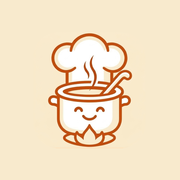
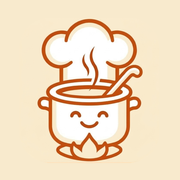
Bouton du minuteur aligné, retour qui ferme « Quelles recettes ? », icône agrandie (1.12.1)
- Minuteur : bouton principal en texte seul, centré comme « ±1 min » ; la
  colonne de boutons ne déborde plus de la carte (« Reprendre »).
- Courses : le retour Android ferme la feuille « Quelles recettes ? » au lieu
  de quitter l'écran ; plus de « à vérifier » sur un article ajouté à la main
  sans quantité (« selon la recette » pour un ingrédient de recette).
- Icône Android : dessin agrandi d'environ 25 %, jusqu'au bord de la zone
  toujours visible.

Claude-Session: https://claude.ai/code/session_019nUedq4jN3SgZrZJ33eYLR

Changed region(s): [[0.1944, 0.0833, 0.8056, 0.9167]]

diff --git a/css/app.css b/css/app.css
@@ -287,12 +287,10 @@ svg.i { width: 20px; height: 20px; flex: none; stroke: currentColor; fill: none;
 .minuteur.sonne { animation: sonne 1s ease-in-out infinite; }
 .minuteur.fini .val { stroke: var(--accent); }
 @keyframes sonne { 50% { background: #FFE2CC; } }
-.minuteur-btns { display: flex; flex-direction: column; gap: 10px; flex: 1; }
-.minuteur-btns button { height: 48px; border-radius: 14px; border: 1px solid var(--bordure); background: var(--carte); font-weight: 600; display: flex; align-items: center; justify-content: center; gap: 6px; }
+.minuteur-btns { display: flex; flex-direction: column; gap: 10px; flex: 1; min-width: 0; }
+.minuteur-btns button { min-width: 0; padding: 0 8px; height: 48px; border-radius: 14px; border: 1px solid var(--bordure); background: var(--carte); font-weight: 600; display: flex; align-items: center; justify-content: center; gap: 6px; }
 .minuteur-btns .lecture { background: var(--minuteur); border-color: var(--minuteur); color: var(--encre); }
-.minuteur-btns .lecture svg.i { fill: currentColor; stroke: none; }
-/* Texte centré comme « −1 min » / « +1 min » : l'icône est compensée à droite. */
-.minuteur-btns .lecture::after { content: ''; width: 20px; flex: none; }
+
 .choix-durees { display: flex; gap: 8px; flex-wrap: wrap; margin: -6px 0 14px; }
 .choix-durees button { padding: 6px 12px; border-radius: 999px; border: 1px solid var(--bordure); background: var(--carte); font-size: 14px; }
 .choix-durees button[aria-pressed="true"] { border-color: var(--minuteur); background: var(--pastel); }
@@ -467,7 +465,6 @@ button.toast-action { background: none; border: 0; padding: 0; font: inherit; }
 .vignette-photo { touch-action: none; user-select: none; -webkit-user-select: none; -webkit-touch-callout: none; }
 .vignette-photo.deplacee { z-index: 2; opacity: .9; box-shadow: 0 10px 24px rgba(43, 33, 24, .3); transition: none; }
 .vignette-photo.cible { outline: 3px solid var(--accent); outline-offset: 2px; }
-.minuteur-btns .lecture svg.i.trait { fill: none; stroke: currentColor; }
 /* Minuteur terminé : bandeau en haut de tous les écrans, tant que ça sonne. */
 .alarme {
   position: fixed; z-index: 60; left: 12px; right: 12px; top: calc(var(--haut) + 10px); max-width: 520px; margin: 0 auto;

diff --git a/js/views/courses.js b/js/views/courses.js
@@ -118,7 +118,8 @@ export function courses(root) {
 }
 
 function article(a, info, ouvert) {
-  const qte = a.sansQuantite ? 'à vérifier' : C.texteQuantites(a);
+  // Sans quantité : rien pour un article ajouté à la main ; « selon la recette » sinon (« sel, poivre »).
+  const qte = !a.sansQuantite ? C.texteQuantites(a) : a.details.every(d => d.ajout) ? '' : 'selon la recette';
   const reste = info.manque
     ? (info.manque.n ? `il manque ${C.formatQuantite(info.manque.n, info.manque.unite)}` : 'j\'en ai assez ✓')
     : '';
@@ -230,9 +231,15 @@ function choisirRecettes(apres) {
   };
   afficher();
   el.querySelector('input').addEventListener('input', ev => afficher(ev.target.value));
-  const fermer = () => { el.remove(); document.body.classList.remove('sans-defilement'); apres(); };
-  el.querySelector('#f-fermer').addEventListener('click', fermer);
-  el.addEventListener('click', ev => { if (ev.target === el) fermer(); });
+  // Une entrée d'historique : le retour Android ferme la feuille au lieu de quitter les courses.
+  history.pushState({ feuille: true }, '');
+  const fermer = () => {
+    window.removeEventListener('popstate', fermer);
+    el.remove(); document.body.classList.remove('sans-defilement'); apres();
+  };
+  window.addEventListener('popstate', fermer);
+  el.querySelector('#f-fermer').addEventListener('click', () => history.back());
+  el.addEventListener('click', ev => { if (ev.target === el) history.back(); });
 }
 
 /** Depuis une fiche : ajoute (ou met à jour) la recette avec le nombre de personnes affiché. */

diff --git a/js/views/cuisine.js b/js/views/cuisine.js
@@ -182,14 +182,10 @@ export function cuisine(root, { params, query }) {
     bloc.classList.toggle('fini', !!m?.fini);
     bloc.classList.toggle('sonne', !!m?.sonne); // clignote seulement tant que ça sonne
     bloc.querySelector('#lib').textContent = m?.fini ? 'Terminé !' : (m ? m.label : libelle(courant.s, defaut));
-    // Le bouton principal dit ce qu'il fait (une icône seule n'était pas parlante une fois terminé).
-    const [ic, texte] = M.enCours(m) ? ['pause', 'Pause'] : m?.sonne ? ['stop', 'Arrêter']
-      : m?.fini ? ['reset', 'Relancer'] : m ? ['play', 'Reprendre'] : ['play', 'Démarrer'];
+    // Le bouton principal dit ce qu'il fait, en texte seul, centré comme « −1 min » et « +1 min ».
+    const texte = M.enCours(m) ? 'Pause' : m?.sonne ? 'Arrêter' : m?.fini ? 'Relancer' : m ? 'Reprendre' : 'Démarrer';
     const lecture = bloc.querySelector('#m-lecture');
-    if (lecture.dataset.etat !== texte) {
-      lecture.dataset.etat = texte;
-      lecture.innerHTML = `${icon(ic, ic === 'reset' ? 'trait' : '')}${texte}`;
-    }
+    if (lecture.textContent !== texte) lecture.textContent = texte;
     corps.querySelector('#m-reset').hidden = !m;
   }
 

diff --git a/sw.js b/sw.js
@@ -1,6 +1,6 @@
 // Service worker : met l'application en cache pour un usage hors ligne.
 // Les recettes et photos sont gérées par l'app elle-même (localStorage + Cache API).
-const VERSION = 'mr-app-1.12.0'; // = version de l'app (js/views/reglages.js)
+const VERSION = 'mr-app-1.12.1'; // = version de l'app (js/views/reglages.js)
 const FICHIERS = [
   './', 'index.html', 'manifest.webmanifest', 'css/app.css',
   'js/app.js', 'js/courses.js', 'js/format.js', 'js/github.js', 'js/minuteurs.js', 'js/push.js', 'js/store.js', 'js/ui.js',

diff --git a/js/views/reglages.js b/js/views/reglages.js
@@ -5,7 +5,7 @@ import { GitHub } from '../github.js';
 import * as push from '../push.js';
 import { esc, icon, retour, toast } from '../ui.js';
 
-export const VERSION = '1.12.0';
+export const VERSION = '1.12.1';
 
 export function reglagesVue(root) {
   const r = store.reglages();

diff --git a/CLAUDE.md b/CLAUDE.md
@@ -19,9 +19,9 @@ App de recettes perso, pensée mobile (Android), en français. Maquette validée
 | `js/github.js` | appels API GitHub (arbre, blobs, contents PUT/DELETE) |
 | `js/store.js` | cache local (texte brut des recettes par sha dans `localStorage`, photos dans le Cache API), favoris, historique, imports en attente |
 | `js/ui.js` | icônes SVG, visuels/placeholder dégradé, cartes, toast, `ongletsGlissants` (onglets dans une piste à défilement natif + aimantation CSS ; la pastille suit pendant le glissement, la hauteur (= onglet affiché, chaque onglet observé) ne change qu'au repos : l'animer pendant le défilement le rendait lent et saccadé ; essai d'un glissement en JS abandonné, saccadé sur téléphone ; changement d'onglet depuis le bas de la page → retour en haut du nouvel onglet) |
-| `js/minuteurs.js` | minuteurs du mode cuisine : plusieurs à la fois (clé `slug|étape|durée`), gardés dans `localStorage`, alarme, une notification par minuteur (heure de fin) ; notification touchée → étape du minuteur (événement `mr:etape` si le mode cuisine est déjà ouvert). Bouton « Recommencer » (étape 1, minuteurs arrêtés, ingrédients décochés). « Relancer » repart de la durée de l'étape (sans les ±1 min) ; le bandeau des autres étapes ne garde pas les minuteurs terminés et arrêtés ; la carte ne clignote que tant que ça sonne. Notifications : heures, minutes et secondes. À la fin : `sonne` = sonnerie en boucle (app ouverte, son préparé au premier toucher) + bandeau « C'est prêt ! » (`app.js`, sauf dans le mode cuisine de la recette) avec « Arrêter » / « +1 min » ; mêmes boutons sur la notification (gérés par `sw.js`, app fermée : `actions.json` appliqué à la réouverture). Le serveur renvoie la notification toutes les 30 s pendant 2 min tant qu'on n'a pas arrêté. Copie des minuteurs dans le Cache API (`mr-donnees`, `minuteurs.json`) pour le service worker. |
+| `js/minuteurs.js` | minuteurs du mode cuisine : plusieurs à la fois (clé `slug|étape|durée`), gardés dans `localStorage`, alarme, une notification par minuteur (heure de fin) ; notification touchée → étape du minuteur (événement `mr:etape` si le mode cuisine est déjà ouvert). Bouton « Recommencer » (étape 1, minuteurs arrêtés, ingrédients décochés). Bouton principal en texte seul (Démarrer, Pause, Reprendre, Arrêter, Relancer), centré comme « ±1 min ». « Relancer » repart de la durée de l'étape (sans les ±1 min) ; le bandeau des autres étapes ne garde pas les minuteurs terminés et arrêtés ; la carte ne clignote que tant que ça sonne. Notifications : heures, minutes et secondes. À la fin : `sonne` = sonnerie en boucle (app ouverte, son préparé au premier toucher) + bandeau « C'est prêt ! » (`app.js`, sauf dans le mode cuisine de la recette) avec « Arrêter » / « +1 min » ; mêmes boutons sur la notification (gérés par `sw.js`, app fermée : `actions.json` appliqué à la réouverture). Le serveur renvoie la notification toutes les 30 s pendant 2 min tant qu'on n'a pas arrêté. Copie des minuteurs dans le Cache API (`mr-donnees`, `minuteurs.json`) pour le service worker. |
 | `js/push.js` | serveur des minuteurs (adresse dans les réglages, `serveur`) : abonnement Web Push, `PUT`/`DELETE /minuteurs/<appareil>|<id>` quand un minuteur démarre / s'arrête. Le `push` reçu par `sw.js` est vide : le SW retrouve le minuteur terminé dans la copie. |
-| `js/courses.js` | liste de courses : recettes prévues + nombre de personnes, ingrédients additionnés (g/kg, mL/cL/L, c. à café/soupe ; noms regroupés sans « fondu », « froid »…, œ/oe, pluriels), rayons, « j'en ai déjà » → ce qui manque, articles ajoutés à la main (`ajouts`), glisser pour retirer avec « Annuler » (`masques` : un article de recette revient si ses quantités changent) ; gardée dans `localStorage` (`mr.courses`) |
+| `js/courses.js` | liste de courses : recettes prévues + nombre de personnes, ingrédients additionnés (g/kg, mL/cL/L, c. à café/soupe ; noms regroupés sans « fondu », « froid »…, œ/oe, pluriels), rayons, « j'en ai déjà » → ce qui manque, articles ajoutés à la main (`ajouts`), glisser pour retirer avec « Annuler » (`masques` : un article de recette revient si ses quantités changent) ; la feuille « Quelles recettes ? » a son entrée d'historique (le retour Android la ferme) ; un article à la main sans quantité n'affiche rien, un ingrédient de recette sans quantité « selon la recette » ; gardée dans `localStorage` (`mr.courses`) |
 | `js/app.js` | un écran s'ouvre toujours en haut (position retrouvée seulement au retour arrière) ; routeur par ancre (`#/`, `#/recettes`, `#/favoris`, `#/courses`, `#/recette/<slug>`, `#/cuisine/<slug>?p=<portions>`, `#/ajouter`, `#/modifier/<slug>`, `#/reglages`) |
 | `js/views/*.js` | un module par écran (accueil : tri A → Z / plus rapides / récentes / anciennes, retenu dans `mr.tri` ; ajout : « Par lien » et « Saisie manuelle » sur une piste qu'on glisse, comme les onglets d'une fiche ; partage Android avec un lien → `#/ajouter?url=…&auto=1`, l'import part tout seul ; modifier : photos réordonnées par glisser-déposer ; mode cuisine : toucher un ingrédient le grise et le barre, mêmes cases que la fiche (`mr.fiche.<slug>`, `coches`) ; plus de niveau/difficulté : ignoré à la lecture, retiré à l'enregistrement) |
 
